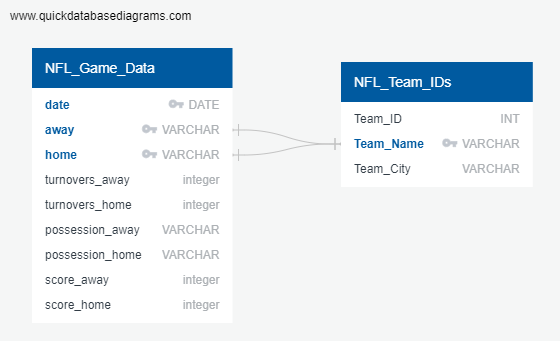
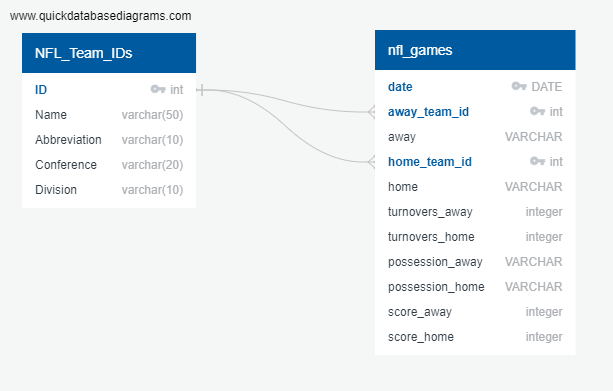
Adding updated README and ERD files.

diff --git a/README.md b/README.md
@@ -96,8 +96,13 @@ In this phase, we aim to predict the winner of NFL games using available data. T
 We start by cleaning the data by dropping any null columns and rows using the dropna method, and removing any irrelevant columns such as 'date', 'team_id', and 'name'. The possession column is also converted into seconds using the timefinder function. We then calculate descriptive statistics for the features using the describe method, and note that the target variable has a balanced number of values.
 The data is then split into training and testing datasets using the train_test_split method, with 80% of the data being used for training. Next, we scale the data using the StandardScaler function to normalize the features.
 
-We then fit a decision tree classifier model using the training data, and make predictions on the testing dataset. We evaluate the model's performance using the confusion matrix, accuracy score, and classification report. The model's accuracy score is 0.7298, indicating that there is still room for improvement.
-Therefore, we implement a regression model that enhances the accuracy up to 83%, which is relatively high and suggests the model's ability to correctly predict the winner. 
+We then fit a decision tree classifier model using the training data, and make predictions on the testing dataset. We evaluate the model's performance using the confusion matrix, accuracy score, and classification report. The model's accuracy score is 72.98%, indicating that there is still room for improvement.
+
+![Decision Tree Confusion Matrix](https://github.com/SKuczynski17/Group-1-Final-Project/blob/main/Decision%20Tree%20Confusion%20Matrix.png)
+
+Therefore, we implement a regression model that enhances the accuracy up to roughly 81.37%, which is relatively high and suggests the model's ability to correctly predict the winner. 
+
+![Logistical Regression Confusion Matrix](https://github.com/SKuczynski17/Group-1-Final-Project/blob/main/Logistical%20Regression%20Accuracy%20Score%20and%20Classification%20Matrix.png)
 
 Overall, the model has shown promising results in predicting the winner of NFL games. By cleaning and preprocessing the data, and training a decision tree classifier model, we were able to accurately predict the winner of NFL games using a set of features
 
